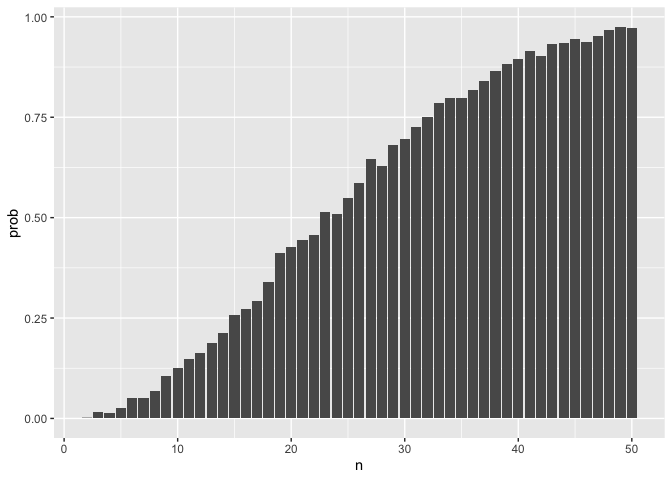
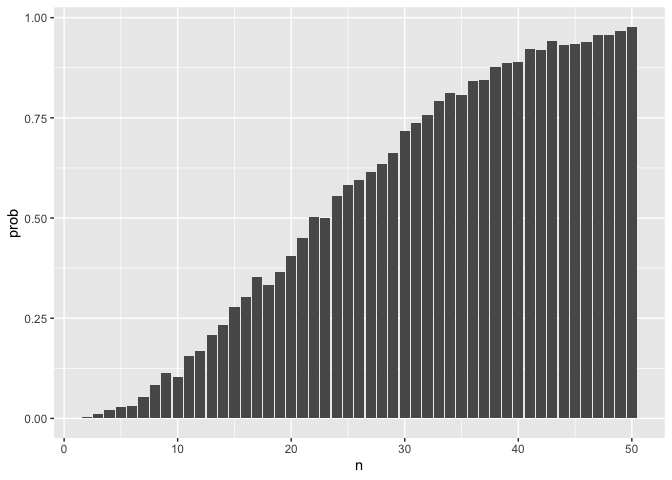
Committing knit file and plots

diff --git a/p8105_hw5_mt3775.md b/p8105_hw5_mt3775.md
@@ -1,19 +1,11 @@
----
-title: "P8105 Homework 5"
-author: "Malika Top"
-date: "2024-11-15"
-output: github_document
----
-
-```{r setup, include=FALSE}
-knitr::opts_chunk$set(echo = TRUE)
-library(tidyverse)
-library(dplyr)
-library(ggplot2)
-```
+P8105 Homework 5
+================
+Malika Top
+2024-11-15
 
 ## Problem 1
-```{r}
+
+``` r
 bday_sim = function(n) {
   bdays = sample(1:365, size = n, replace = TRUE)
   duplicate = length(unique(bdays)) < n
@@ -34,14 +26,17 @@ sim_res |>
   geom_col()
 ```
 
-The probability of having at least one other person share a birthday increases as the 
-number of people in the group, n, increases. The probability passes 0.5, when n = 23. 
-Even with n = 50 though, we don't get a probability of 1 exactly, but we get very close.
-If we increase n to 100, then we would definitely have reached 1 by that point.
+![](p8105_hw5_mt3775_files/figure-gfm/unnamed-chunk-1-1.png)<!-- -->
+
+The probability of having at least one other person share a birthday
+increases as the number of people in the group, n, increases. The
+probability passes 0.5, when n = 23. Even with n = 50 though, we don’t
+get a probability of 1 exactly, but we get very close. If we increase n
+to 100, then we would definitely have reached 1 by that point.
 
 ## Problem 2
 
-```{r}
+``` r
 sim_power = function(mu) {
   sim_data = 
     tibble(
@@ -66,12 +61,14 @@ sim_res |>
   summarise(power = mean(p.value < 0.05)) |> 
   ggplot(aes(x = mu, y = power)) +
   geom_point()
-
 ```
 
-As the true value of $\mu$ increases (i.e. the effect size), the power increases. 
+![](p8105_hw5_mt3775_files/figure-gfm/unnamed-chunk-2-1.png)<!-- -->
 
-```{r}
+As the true value of $\mu$ increases (i.e. the effect size), the power
+increases.
+
+``` r
 avg_mu_hat = 
   sim_res |> 
   group_by(mu) |> 
@@ -87,16 +84,21 @@ ggplot(avg_mu_hat, aes(x = mu, y = avg_mu_hat)) +
   labs(color = "Samples where null was rejected")
 ```
 
-The sample average of $\hat{\mu}$ across tests for which the null is rejected (the red points),
-is not approximately equal for $\mu = {0, 1, 2, 3}$. We see that those values are just
-a bit above the true value (red points above black). This is because when we are selecting just
-the tests where the null is rejected, so we have values of $\hat{\mu}$ that are more extreme than
-the true value of $\mu$. Furthermore, we see that for larger values of $mu$, it's easier to 
-detect a difference of say 5 or 6, therefore, there's more power, and the sample averages of 
-$\hat{\mu}$ are approximately the true value. 
+![](p8105_hw5_mt3775_files/figure-gfm/unnamed-chunk-3-1.png)<!-- -->
+
+The sample average of $\hat{\mu}$ across tests for which the null is
+rejected (the red points), is not approximately equal for
+$\mu = {0, 1, 2, 3}$. We see that those values are just a bit above the
+true value (red points above black). This is because when we are
+selecting just the tests where the null is rejected, so we have values
+of $\hat{\mu}$ that are more extreme than the true value of $\mu$.
+Furthermore, we see that for larger values of $mu$, it’s easier to
+detect a difference of say 5 or 6, therefore, there’s more power, and
+the sample averages of $\hat{\mu}$ are approximately the true value.
 
 ## Problem 3
-```{r}
+
+``` r
 homicide_df = read.csv("data/homicide-data.csv") 
 homicide_df[50810, "state"] = "OK"
 homicide_df = homicide_df |> 
@@ -114,14 +116,18 @@ homicide_counts_df = homicide_df |>
                                            disposition == "Open/No arrest")
   ) |> 
   arrange(desc(total_homicide_count))
-
 ```
 
-After reading in the dataset, we see that one of the observations from Tulsa, OK, incorrectly
-has its state coded as AL, so we change that one value using indices. We also observe that
-Wisconsin's abbreviation is "wI", so we change that to "WI" to be consistent with 
-the others. The city with the most total homicide counts was Chicago. 
-```{r}
+    ## `summarise()` has grouped output by 'city_state', 'city'. You can override
+    ## using the `.groups` argument.
+
+After reading in the dataset, we see that one of the observations from
+Tulsa, OK, incorrectly has its state coded as AL, so we change that one
+value using indices. We also observe that Wisconsin’s abbreviation is
+“wI”, so we change that to “WI” to be consistent with the others. The
+city with the most total homicide counts was Chicago.
+
+``` r
 prop_test = function(x, y) {
   test = prop.test(x, y)
   result = broom::tidy(test) |> 
@@ -150,17 +156,12 @@ prop_results |>
   labs(title = "Estimated Proportion of Unsolved Homicides in the United States",
        x = "City, State", y = "Estimate of Proportion",
        caption = "Organized according to proportion of unsolved homicides in descending order")
-
 ```
 
-From the results of `prop.test`, Chicago has the highest estimated proportion
-of unsolved homicides, and appears to have the narrowest confidence interval, which means
-that there is the least variability around that estimate. In this plot, I also colored by
-state since some states repeat. 
+![](p8105_hw5_mt3775_files/figure-gfm/unnamed-chunk-5-1.png)<!-- -->
 
-
-
-
-
-
-
+From the results of `prop.test`, Chicago has the highest estimated
+proportion of unsolved homicides, and appears to have the narrowest
+confidence interval, which means that there is the least variability
+around that estimate. In this plot, I also colored by state since some
+states repeat.
